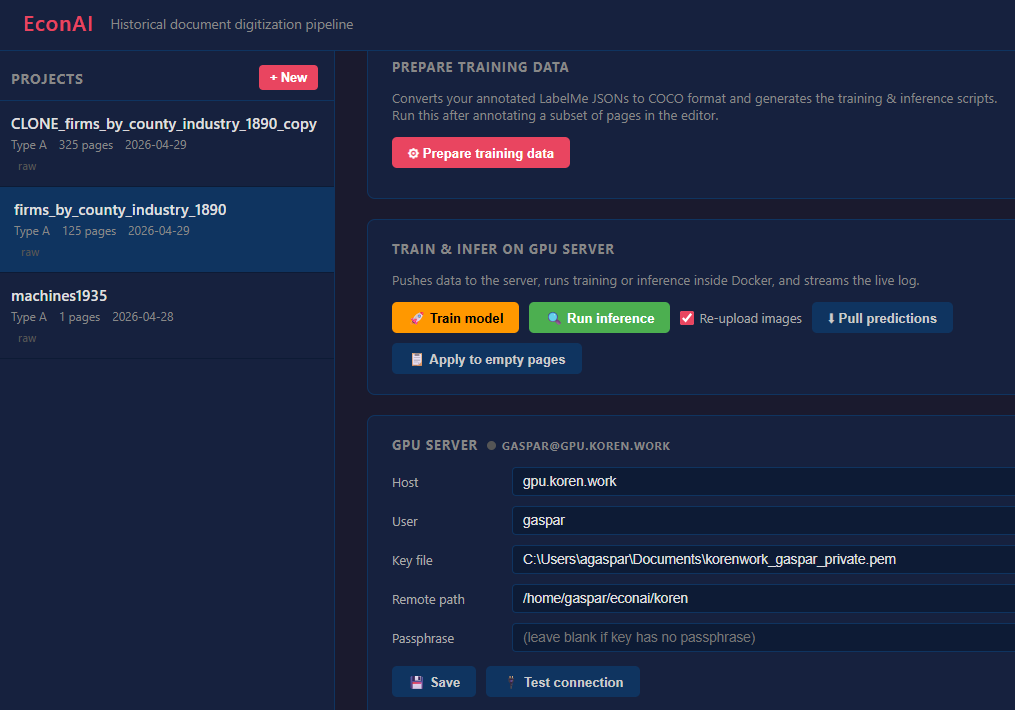
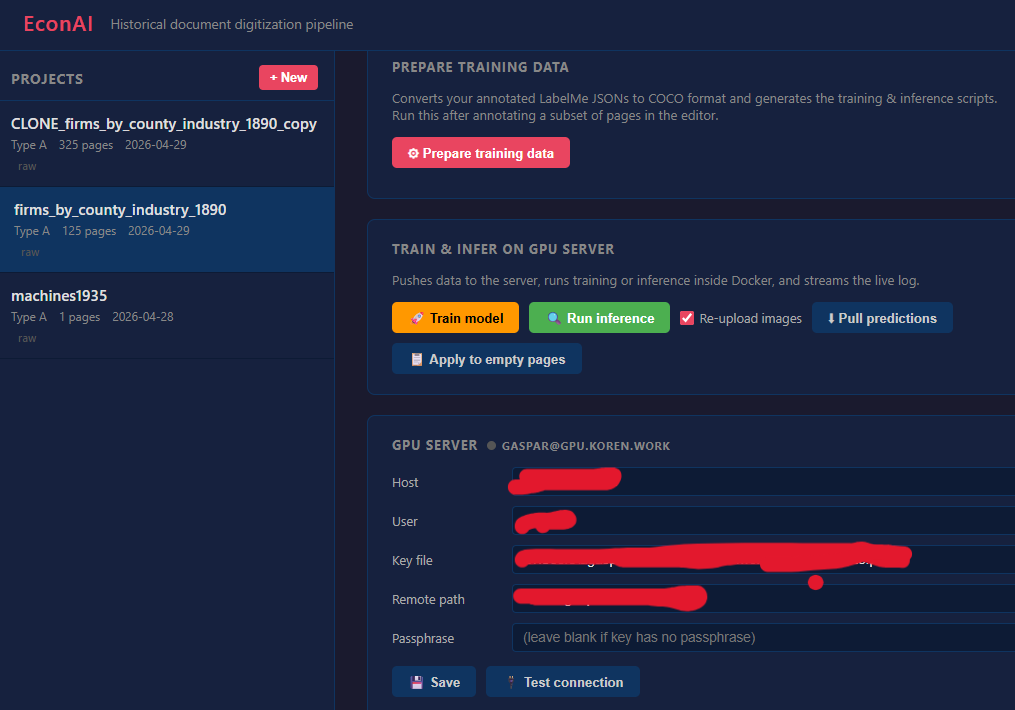
Update README with edited descriptions and revised screenshot 2

Changed region(s): [[0.4887, 0.6507, 0.9163, 0.8676]]

diff --git a/README.md b/README.md
@@ -1,8 +1,12 @@
 # EconAI — Historical Document Digitization Pipeline
 
-A browser-based tool for digitizing historical economic documents at scale using layout detection, OCR, and LLM cleaning. Built for researchers who need to turn large collections of scanned statistical tables and registers into structured data — without sending everything to a commercial API.
+A browser-based tool for digitizing historical economic documents at scale using layout detection, OCR, and LLM cleaning. Built for researchers who need to turn large collections of scanned statistical tables and registers into structured data.
 
 The pipeline takes you from raw scanned pages all the way to Excel/CSV, with human-in-the-loop correction at every stage.
+
+What is needed:
+- API key, if commercial LLM is preferred
+- GPU server access (where Detectron2 and locally run LLM run in Docker containers)
 
 ---
 
@@ -16,13 +20,17 @@ All projects are listed in the sidebar with their type, page count, and current 
 
 ![Dashboard — GPU training and server settings](illustrations/2.png)
 
-The dashboard also handles the GPU training workflow: prepare training data (LabelMe → COCO conversion), push to a remote GPU server, run Detectron2 training or inference inside Docker, and pull predictions back — all with a live streaming log. SSH connection settings are configured here.
+The dashboard also handles the GPU training workflow: prepare training data, push to a remote GPU server, run Detectron2 training or inference inside Docker, and pull predictions back — all with a live streaming log. SSH connection settings are configured here.
 
 ### Annotation editor
 
 ![Annotation editor](illustrations/3.png)
 
-The editor is a full-featured browser-based annotation tool built on OpenSeadragon. It shows the scanned page at full resolution with zoomable pan, and overlays bounding box annotations with label colors. The right panel shows the selected cell's OCR, LLM-cleaned, and human-validated text side by side. The toolbar provides tools for layout detection, lattice grid editing, row/column fill, and diagnostics.
+The editor is a full-featured browser-based annotation tool built on OpenSeadragon. It servers for training data generation, inference evaluation and correction, structured data export.
+
+It shows the scanned page at full resolution with zoomable pan, and overlays bounding box annotations with label colors. The right panel shows the selected cell's OCR, LLM-cleaned, and human-validated text side by side. The toolbar provides tools for layout detection, lattice grid editing, row/column fill, and diagnostics.
+
+
 
 ---
 
@@ -31,13 +39,15 @@ The editor is a full-featured browser-based annotation tool built on OpenSeadrag
 Provides a full pipeline from raw scanned pages to structured Excel/CSV:
 
 ```
-annotate layout → train GPU model → run inference → correct predictions
-→ detect superstructure → OCR cells → LLM cleaning → validate → export
+(1) annotate layout → (2) train GPU model → (3) run inference → (4) correct predictions
+→ (5) detect superstructure → (6) OCR cells → (7) LLM cleaning → validate → export
 ```
 
+Steps (2) to (4) can be made a loop to improve the vision model.
+
 Two document types:
-- **Type A** — tables (statistical yearbooks, census data): grid/layout detection
-- **Type B** — structured text (company registers): LLM field extraction
+- **Type A** — tables (e.g., statistical yearbooks, census data): grid/layout detection
+- **Type B** — structured text (e.g., company registers, newspapers): LLM field extraction
 
 ---
 
@@ -82,6 +92,7 @@ Single-page app with OpenSeadragon viewer and SVG overlay.
 ### Drawing (edit mode)
 - **Click-drag on empty canvas** — draw a new bounding box
 - **Ctrl+drag on empty canvas** — rubber-band select: selects all boxes that overlap the drawn rectangle
+- **Table draw** — draw whole table by drawing outline, then column and row separators
 
 ### Single selection
 - **Click a box** — select it; right panel shows label, cell image crop, OCR/LLM/human text
